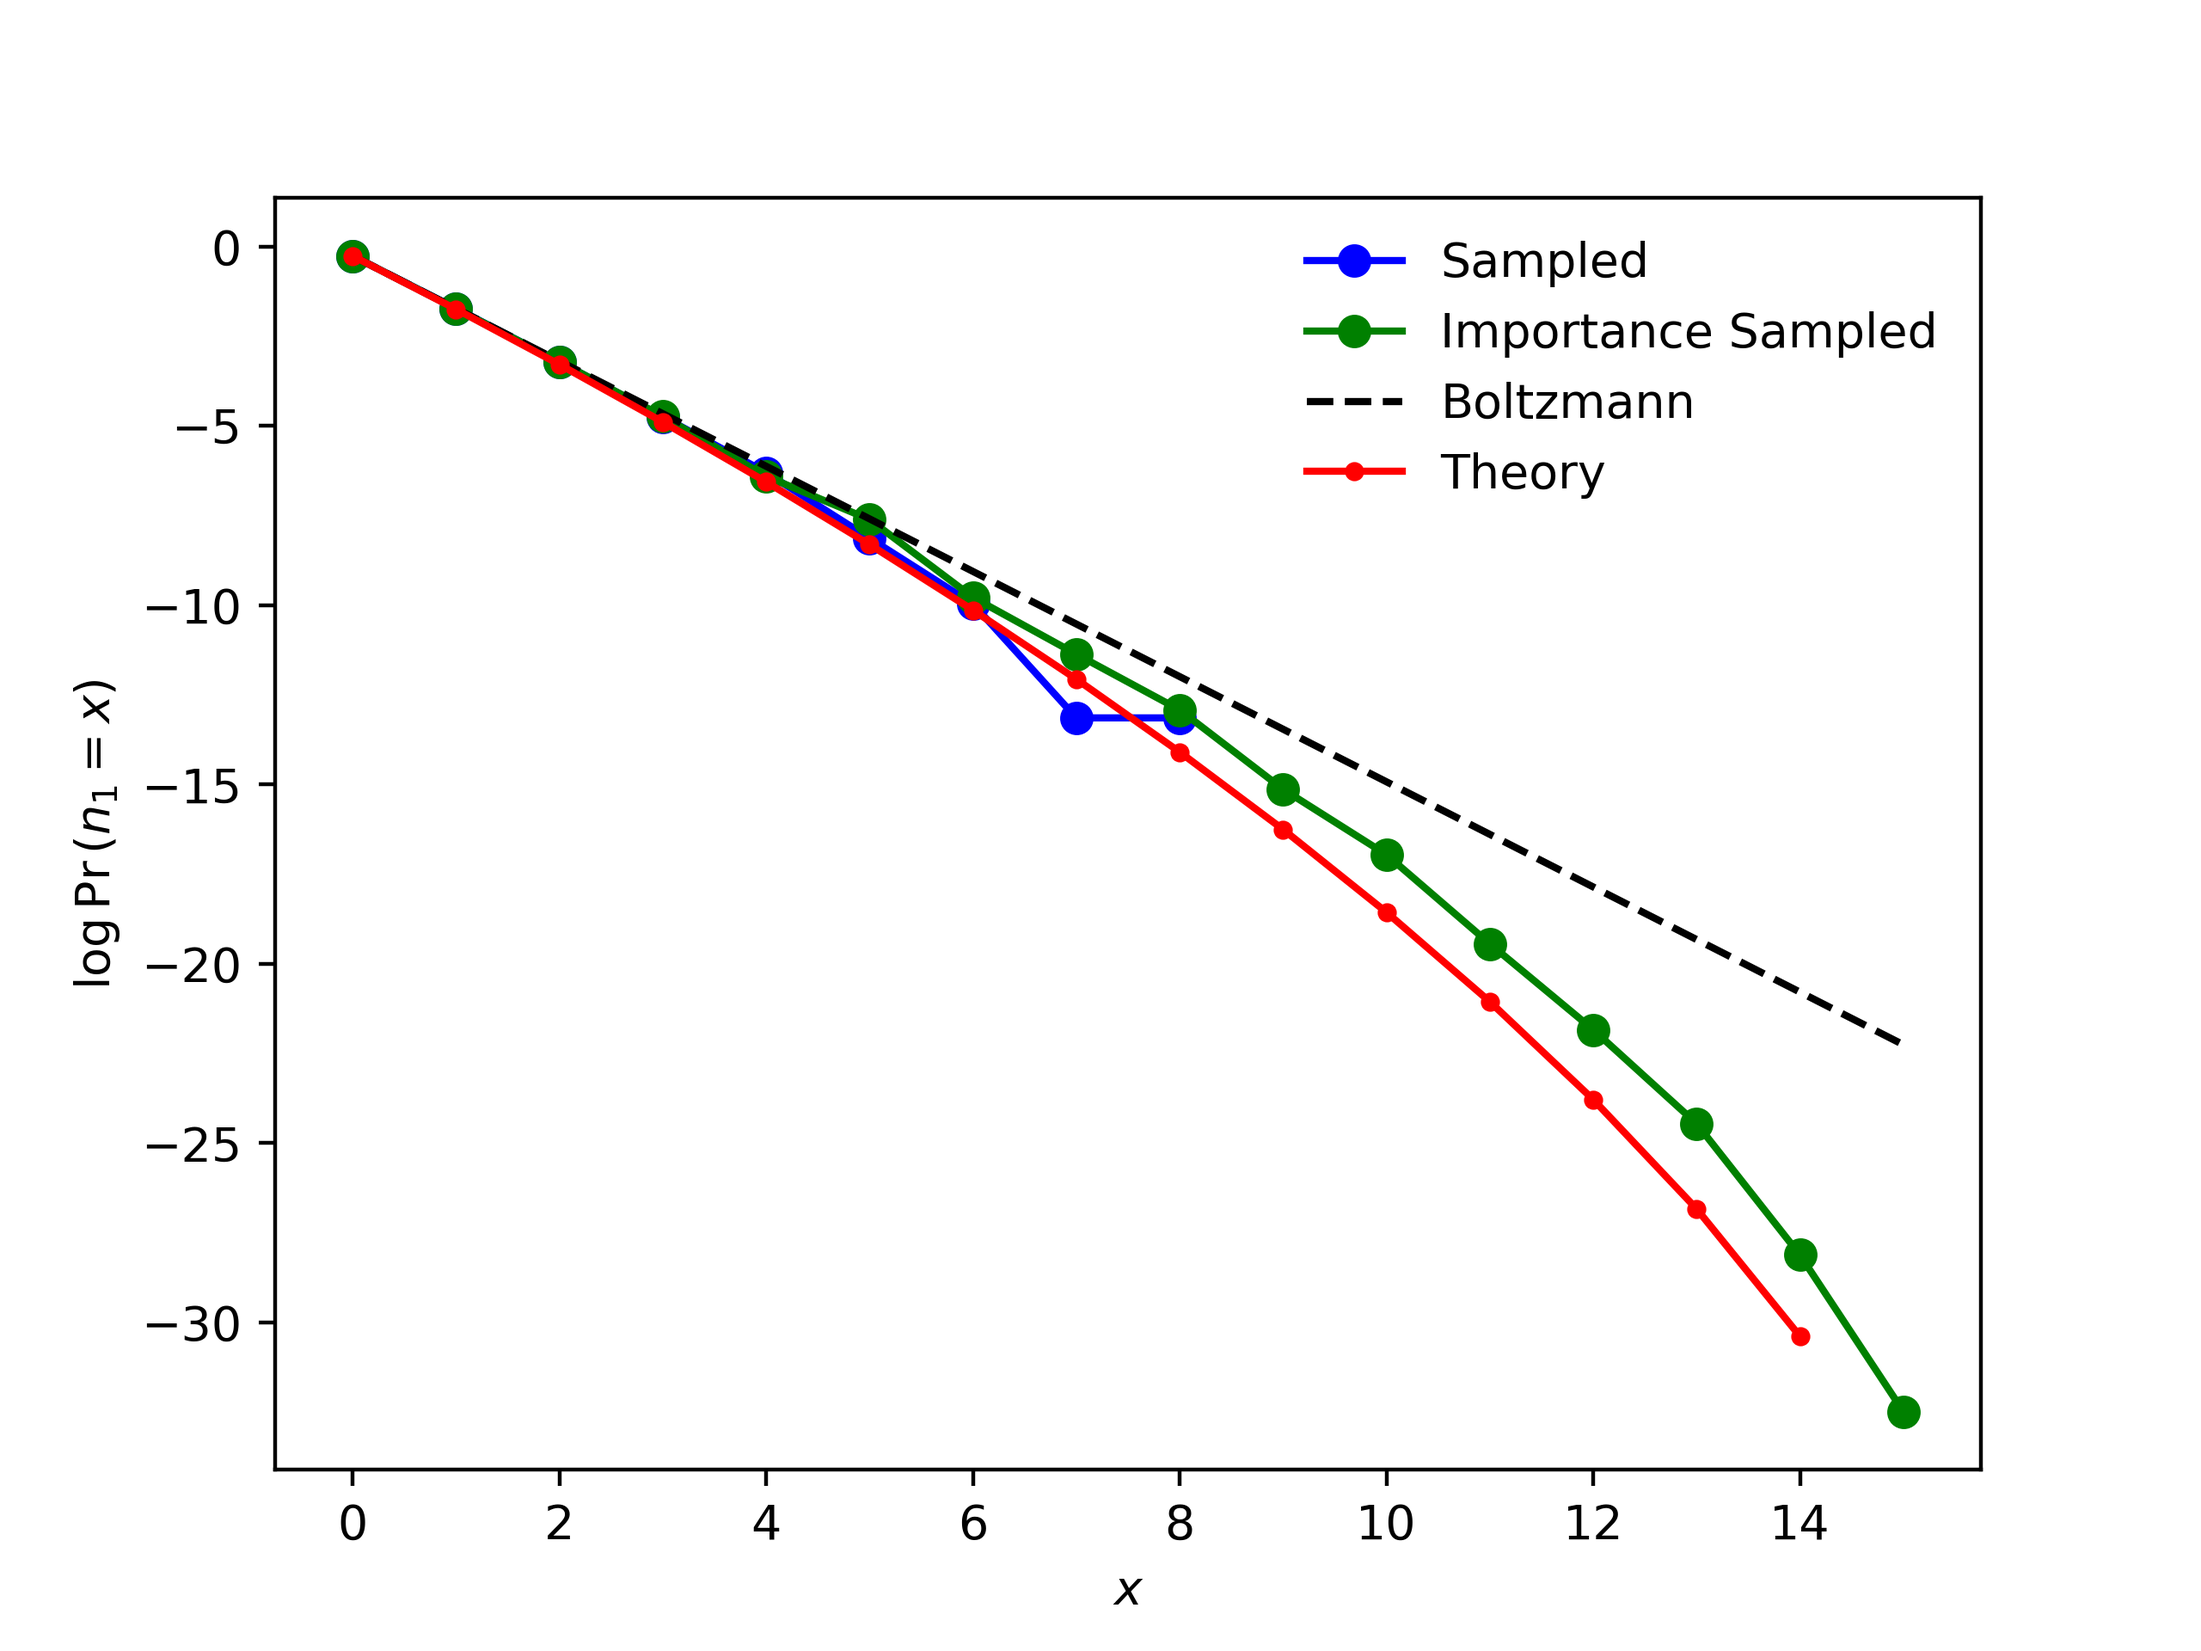
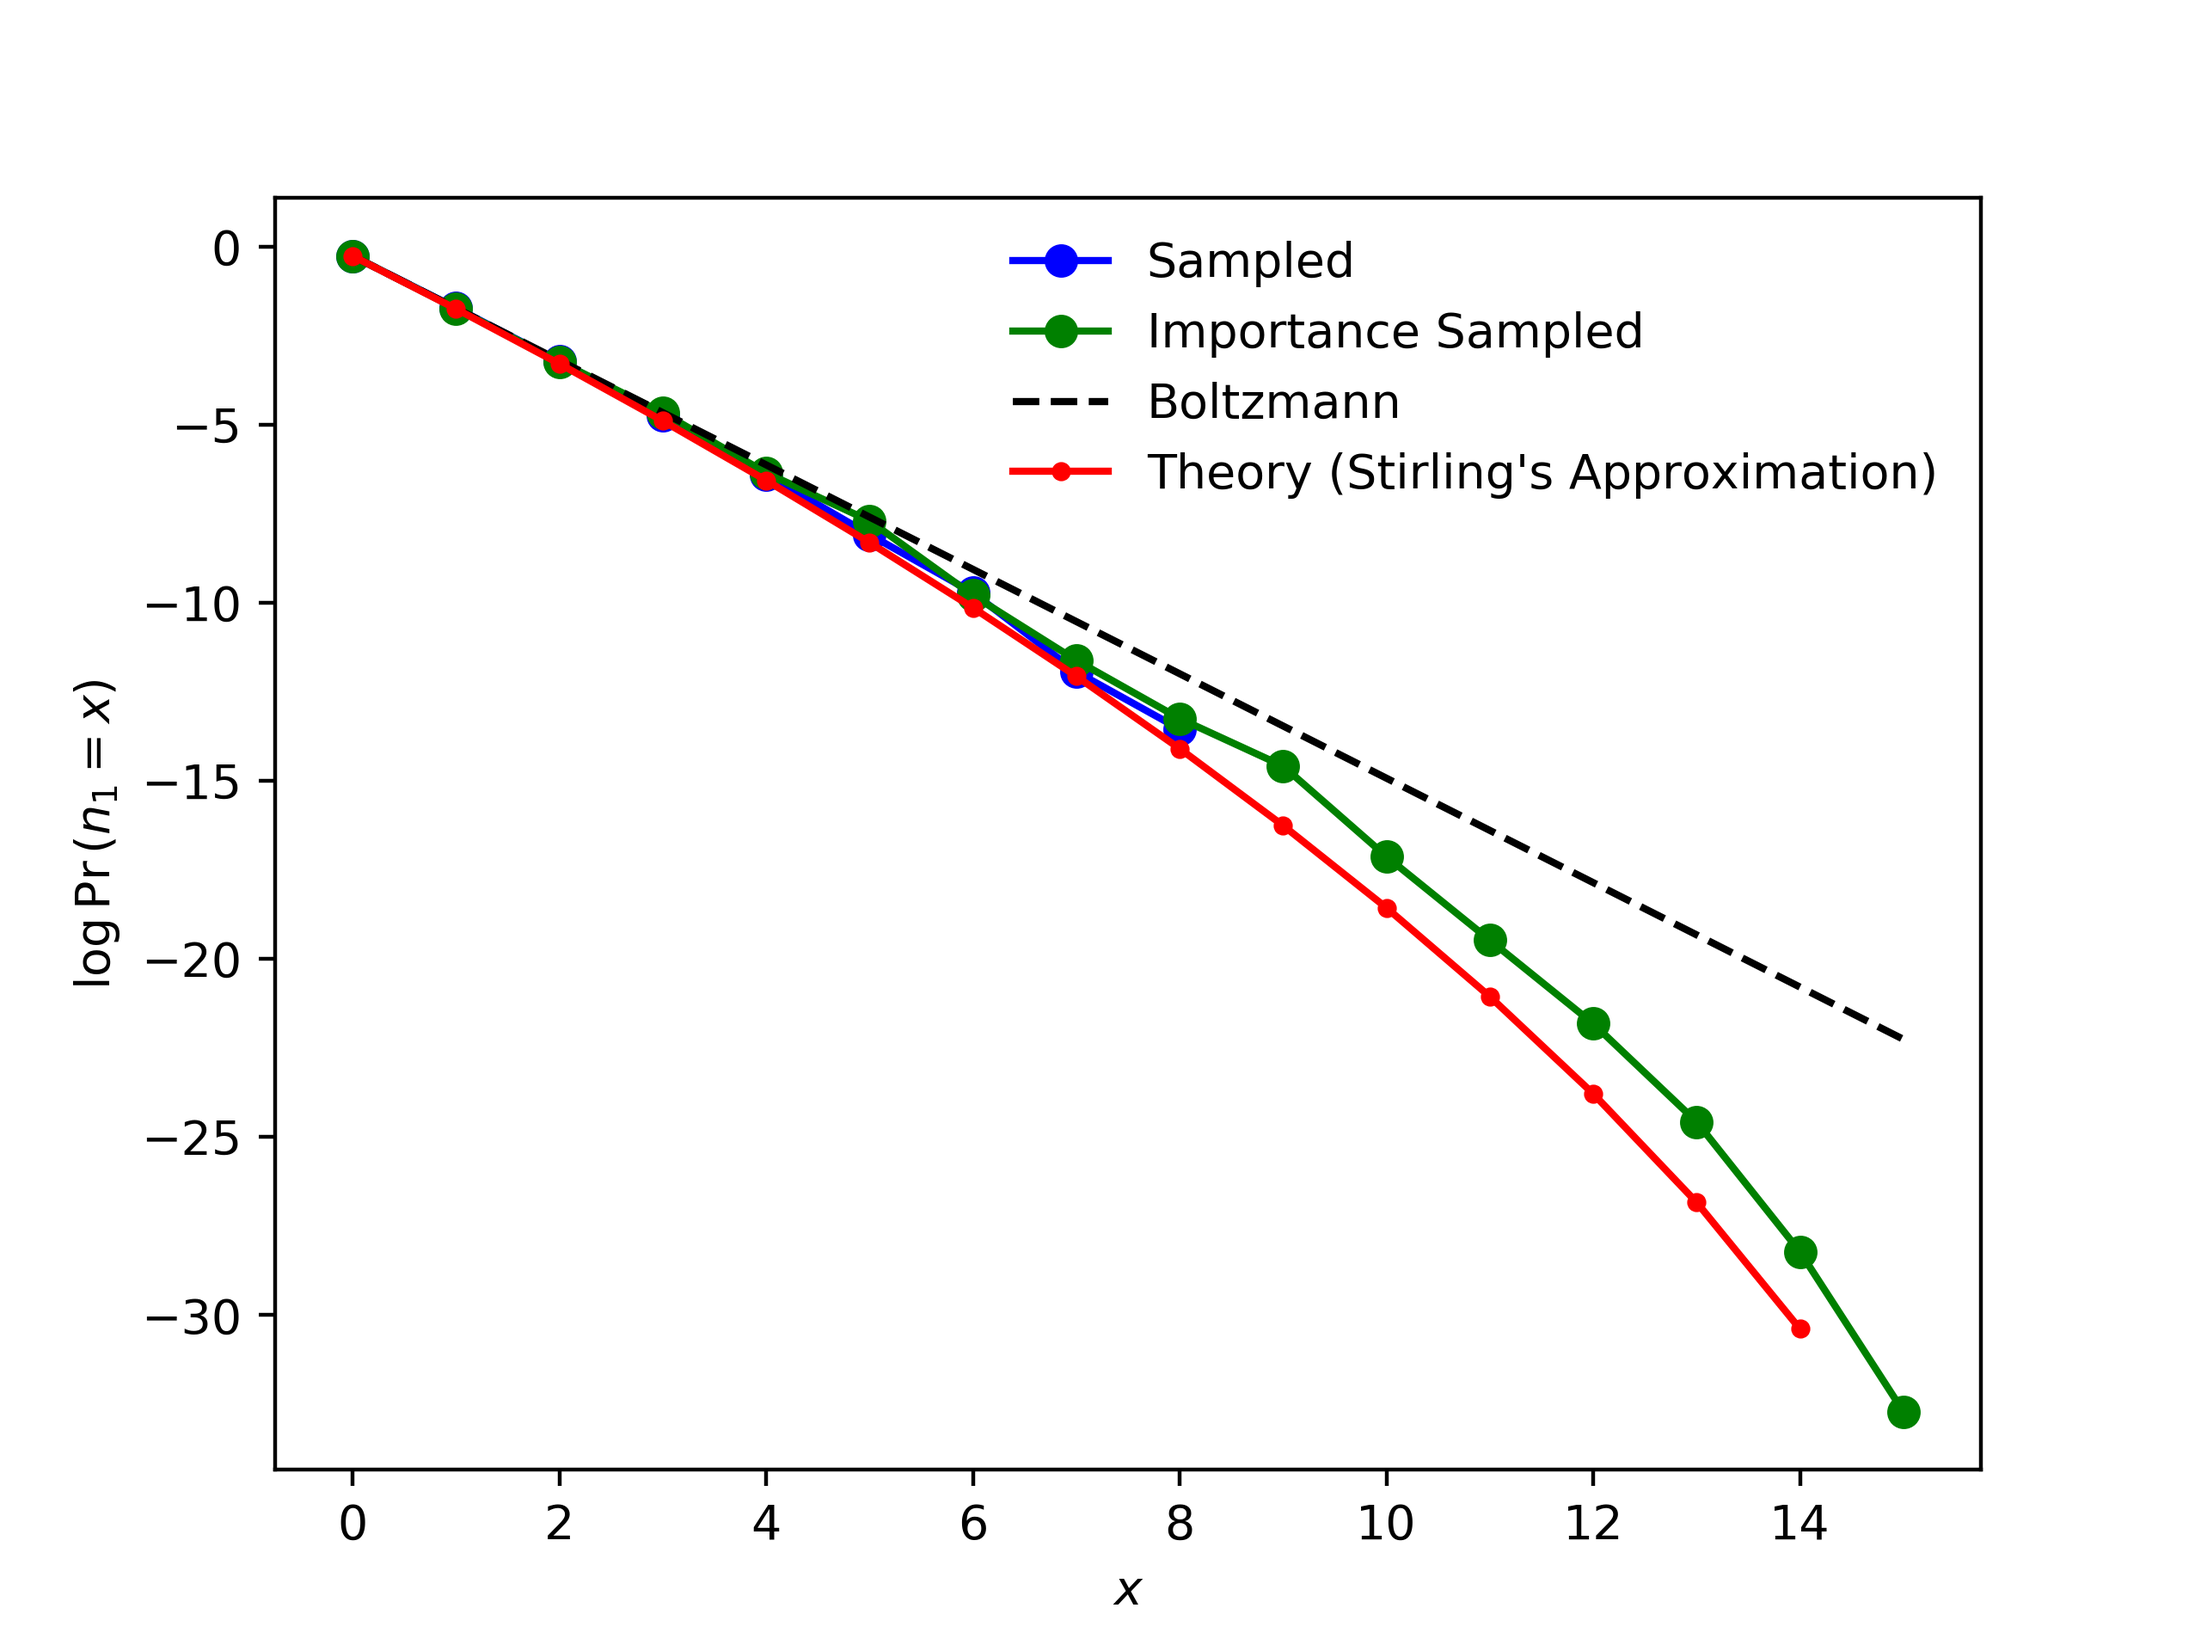
add label for Stirling's approximation

diff --git a/moc.py b/moc.py
@@ -14,7 +14,7 @@ def main():
     #set some constants
     nBalls = 15
     nBins = 50
-    nShuffles = 10000
+    nShuffles = 15000
 
     #initialize stars and bars list and counts list
     starsAndBars = [STAR for _ in range(nBalls)] + [BAR for _ in range(nBins-1)]
@@ -55,7 +55,7 @@ def main():
     plt.plot(x,logHist,'bo-',label='Sampled')
     plt.plot(x,importanceSampled,'go-',label='Importance Sampled')
     plt.plot(x,boltzmann,'k--',label='Boltzmann')
-    plt.plot(x,theory,'r.-',label='Theory')
+    plt.plot(x,theory,'r.-',label='Theory (Stirling\'s Approximation)')
     plt.xlabel(r'$x$')
     plt.ylabel(r'$\log\,\mathrm{Pr}\,(n_1 = x)$')
     plt.legend(framealpha=0,loc='upper right')
